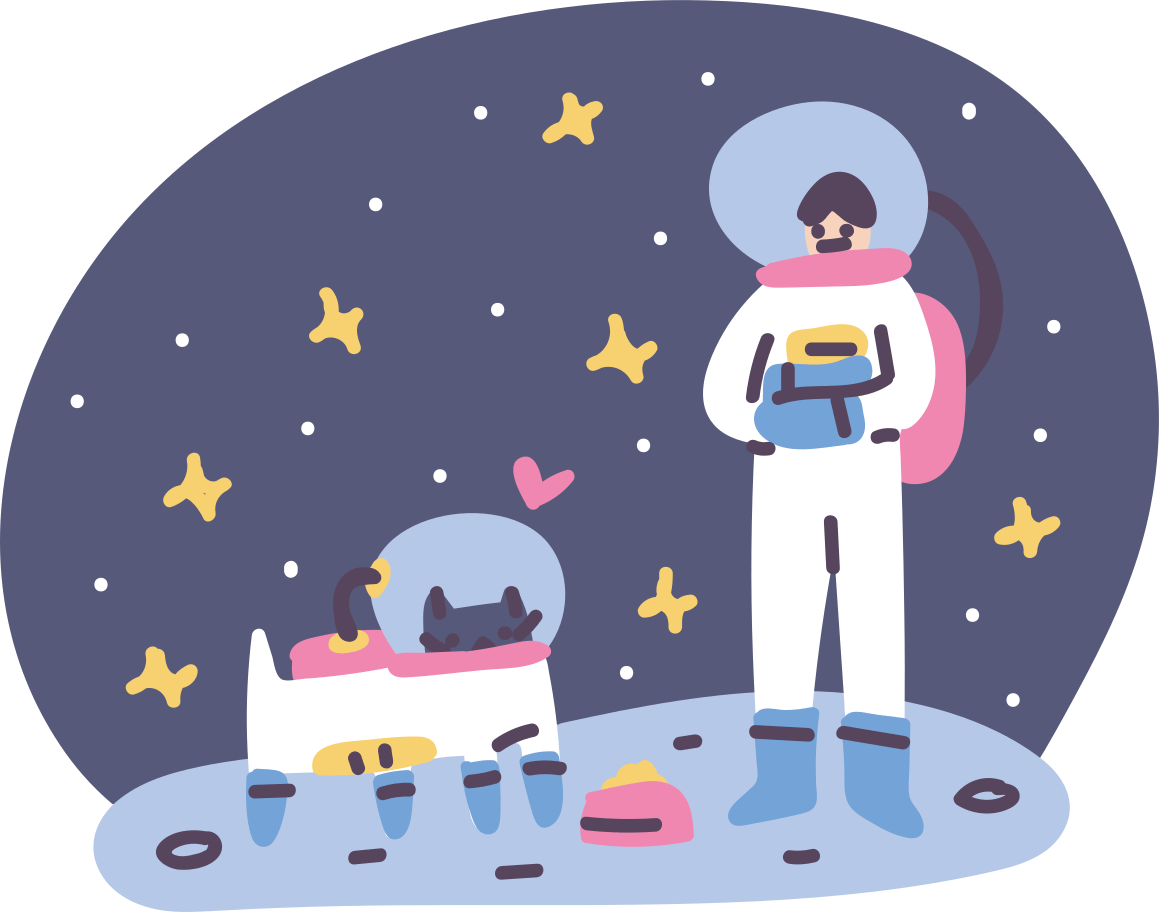
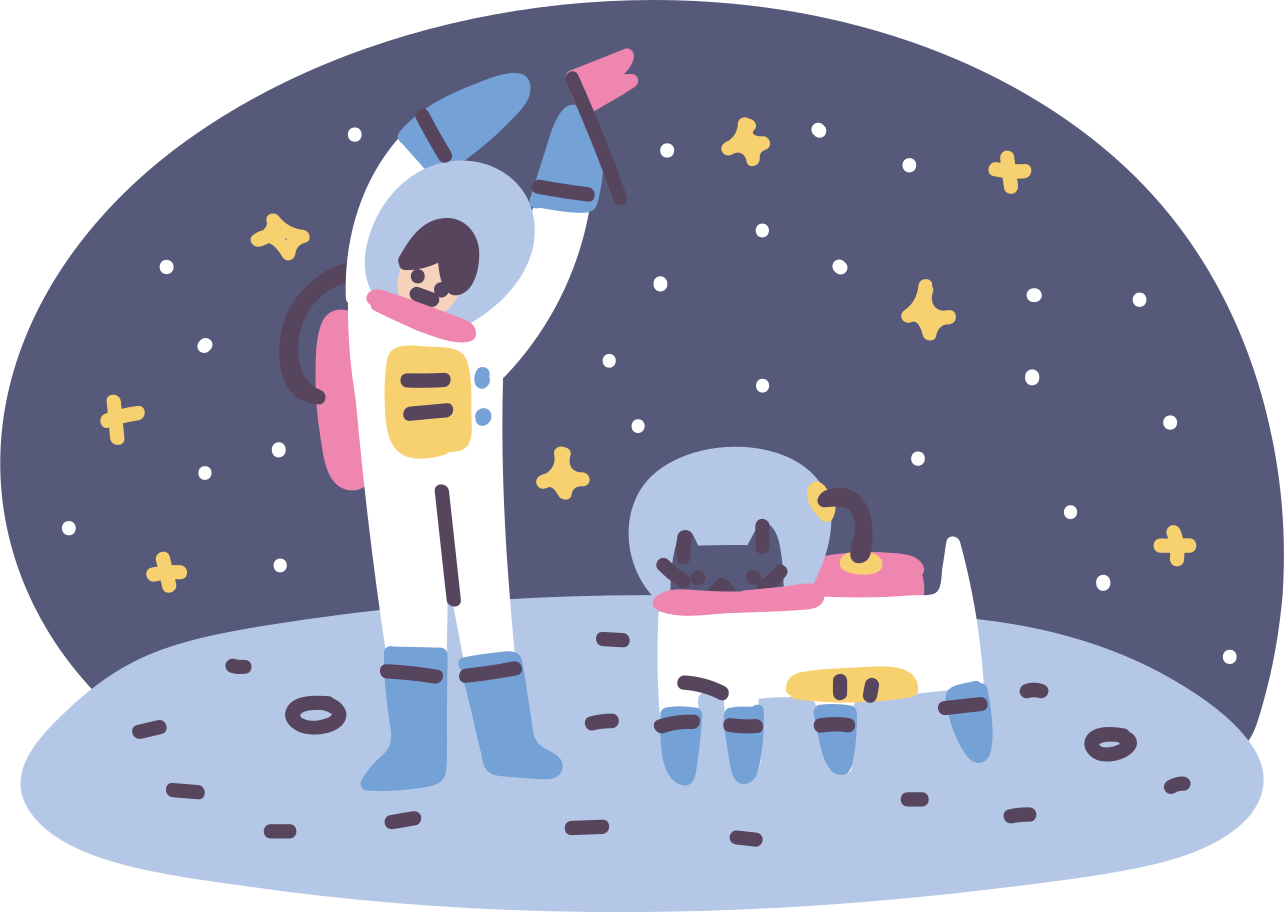
1.添加loading对话框 2.添加登录页面 3.添加图片素材

diff --git a/lib/widgets/loading_dialog.dart b/lib/widgets/loading_dialog.dart
@@ -1,0 +1,45 @@
+import 'package:flutter/material.dart';
+
+class LoadingDialog extends Dialog {
+  LoadingDialog({Key key}) : super(key: key);
+
+  @override
+  Widget build(BuildContext context) {
+    return Material(
+      //创建透明层
+      type: MaterialType.transparency, //透明类型
+      child: Center(
+        child: SizedBox(
+          width: 120,
+          height: 120,
+          child: Container(
+            decoration: ShapeDecoration(
+              color: Colors.white,
+              shape: RoundedRectangleBorder(
+                borderRadius: BorderRadius.all(
+                  Radius.circular(12),
+                ),
+              ),
+            ),
+            child: Column(
+              mainAxisAlignment: MainAxisAlignment.center,
+              crossAxisAlignment: CrossAxisAlignment.center,
+              children: <Widget>[
+                CircularProgressIndicator(),
+                Padding(
+                  padding: const EdgeInsets.only(
+                    top: 20,
+                  ),
+                  child: Text(
+                    '加载中',
+                    style: TextStyle(fontSize: 12),
+                  ),
+                ),
+              ],
+            ),
+          ),
+        ),
+      ),
+    );
+  }
+}

diff --git a/lib/screen/generate.dart b/lib/screen/generate.dart
@@ -69,10 +69,10 @@ class _GeneratePageState extends State<GeneratePage> {
                                   final double curvedValue = Curves
                                           .easeInOutBack
                                           .transform(anim1.value) -
-                                      1.0;
+                                      1;
                                   return Transform(
                                       transform: Matrix4.translationValues(
-                                          0.0, curvedValue * -320, 0.0),
+                                          0, curvedValue * -320, 0),
                                       child: OptionsDialog());
                                 })
                           })
@@ -95,7 +95,8 @@ class Display extends StatelessWidget {
         Container(
           padding: EdgeInsets.only(top: 10),
           child: Image(
-              image: AssetImage('assets/images/pluto-welcome.png'), width: 200),
+              image: AssetImage('assets/images/pluto-payment-processed.png'),
+              width: 200),
         ),
         Container(
           padding: EdgeInsets.only(top: 40),

diff --git a/lib/screen/login.dart b/lib/screen/login.dart
@@ -1,0 +1,22 @@
+//核心库
+import 'package:dio/dio.dart';
+import 'package:flutter/material.dart';
+//第三方库
+import 'package:provider/provider.dart';
+//请求
+import '../services/api.dart';
+import '../services/request.dart';
+//组件
+import '../widgets/custom_button.dart';
+//common
+import '../common/style.dart';
+import '../common/optionsData.dart';
+//model
+import '../model/name_options.dart';
+
+class LoginPage extends StatelessWidget {
+  @override
+  Widget build(BuildContext context) {
+    return Scaffold();
+  }
+}

diff --git a/lib/screen/home.dart b/lib/screen/home.dart
@@ -1,5 +1,6 @@
 import 'package:flutter/material.dart';
 //page
+import 'package:namegenerator/screen/login.dart';
 import 'package:namegenerator/screen/generate.dart';
 import 'package:namegenerator/screen/my.dart';
 //common
@@ -22,6 +23,9 @@ class _HomePageState extends State<HomePage> {
 
   @override
   Widget build(BuildContext context) {
+    if (1 > 0) {
+      return LoginPage();
+    }
     return Scaffold(
         body: PageView.builder(
           onPageChanged: _onPageChange,

diff --git a/lib/routes/routes.dart b/lib/routes/routes.dart
@@ -1,11 +1,8 @@
 import 'package:flutter/material.dart';
 import '../screen/home.dart';
-import '../screen/my.dart';
 
 class Routes {
   static Map<String, WidgetBuilder> mappingList = <String, WidgetBuilder>{
     '/home': (BuildContext context) => HomePage(),
-    '/my': (BuildContext context) => MyPage(),
   };
-  static List<String> bottomNavigationBarRouteList = <String>['/home', '/my'];
 }

diff --git a/lib/screen/my.dart b/lib/screen/my.dart
@@ -46,8 +46,8 @@ class BaseInformationBox extends StatelessWidget {
           boxShadow: [
             BoxShadow(
                 color: Color.fromRGBO(0, 80, 180, 0.1),
-                blurRadius: 12.0,
-                offset: Offset(0, 6.0)),
+                blurRadius: 12,
+                offset: Offset(0, 6)),
           ]),
       child: Center(
           child: Column(

diff --git a/lib/main.dart b/lib/main.dart
@@ -31,7 +31,7 @@ class MyApp extends StatelessWidget {
     return MaterialApp(
       title: '网名生成器',
       home: HomePage(),
-      routes: Routes.mappingList,
+      //routes: Routes.mappingList,
     );
   }
 }
